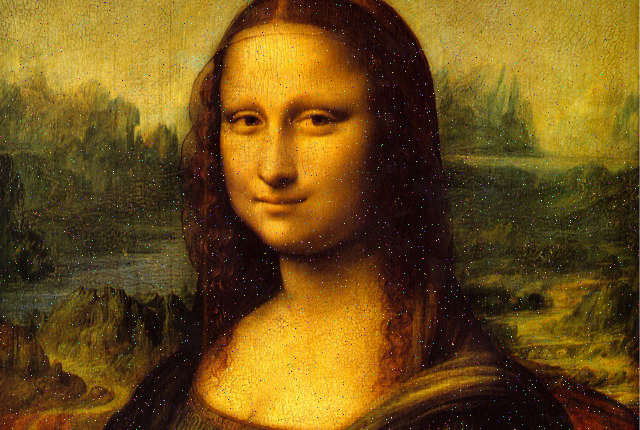
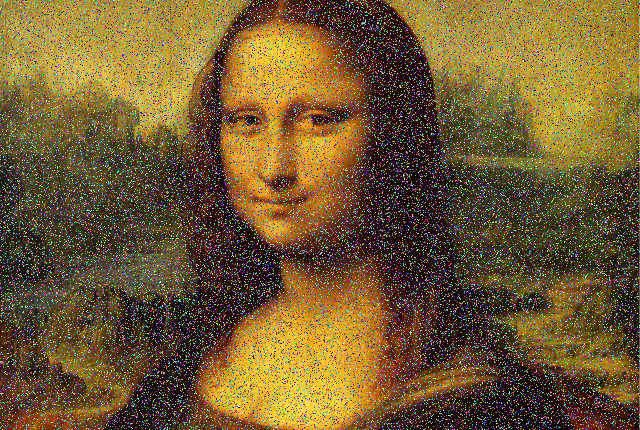
rate

Changed region(s): [[0.0, 0.0, 1.0, 1.0]]

diff --git a/RandomBlur.py b/RandomBlur.py
@@ -1,10 +1,9 @@
-import cv2
-import random
+import cv2, random
 image = cv2.imread("./images/monalisa.png")
 
-blur_pixel = 3000
+blur_rate = 0.25
 
-for _ in range(blur_pixel):
+for _ in range(int((image.shape[0]*image.shape[1])*blur_rate)):
     x = random.randint(0, image.shape[0] - 1)
     y = random.randint(0, image.shape[1] - 1)
     image[x, y] = (random.randint(0, 255), random.randint(0, 255), random.randint(0, 255))
